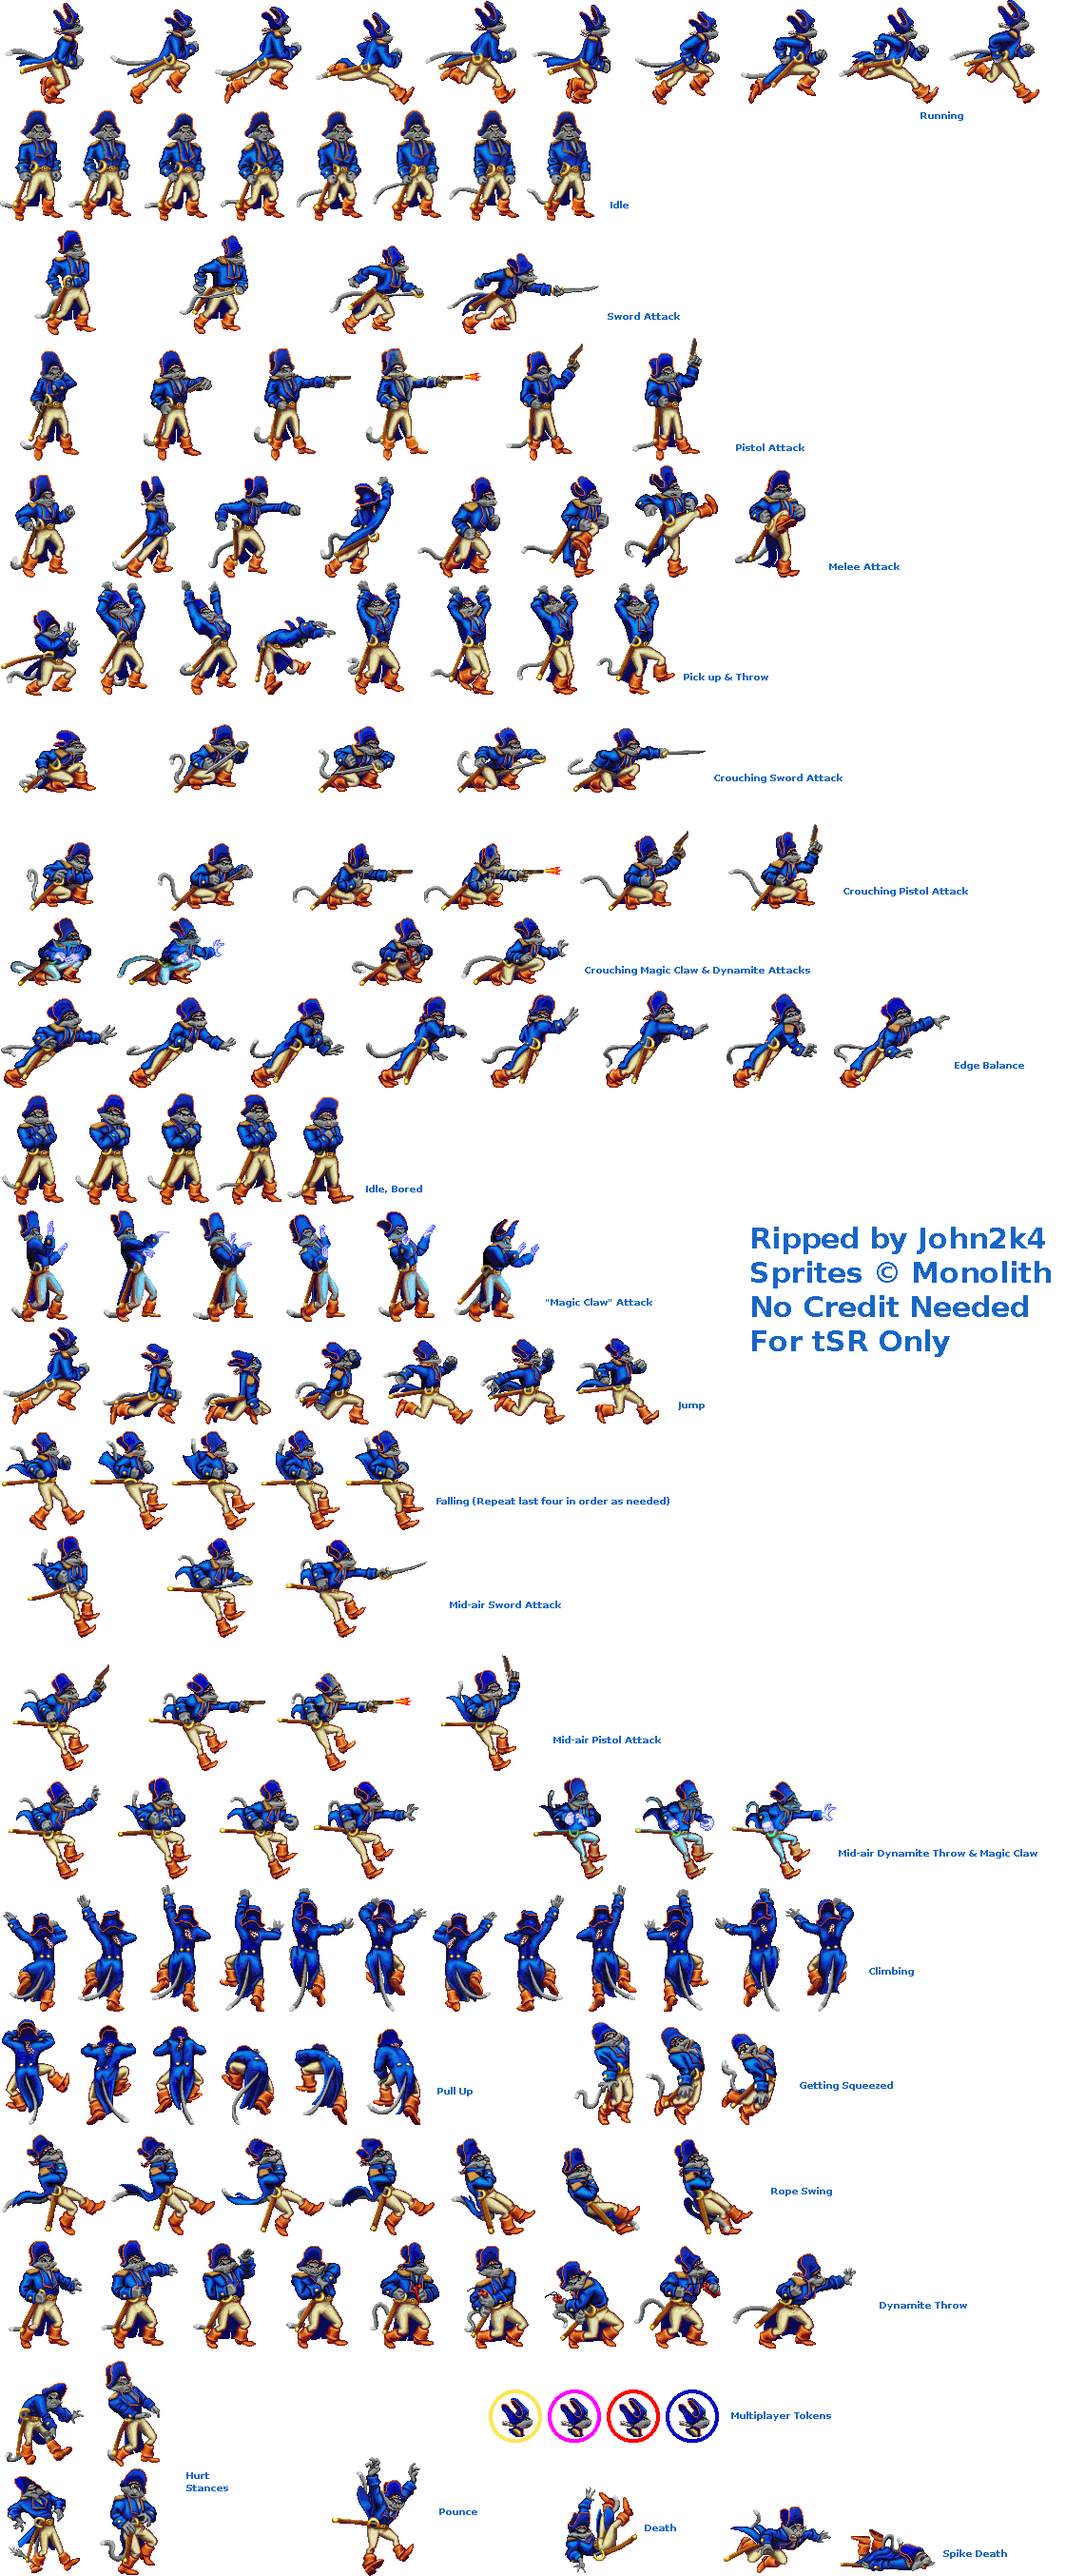
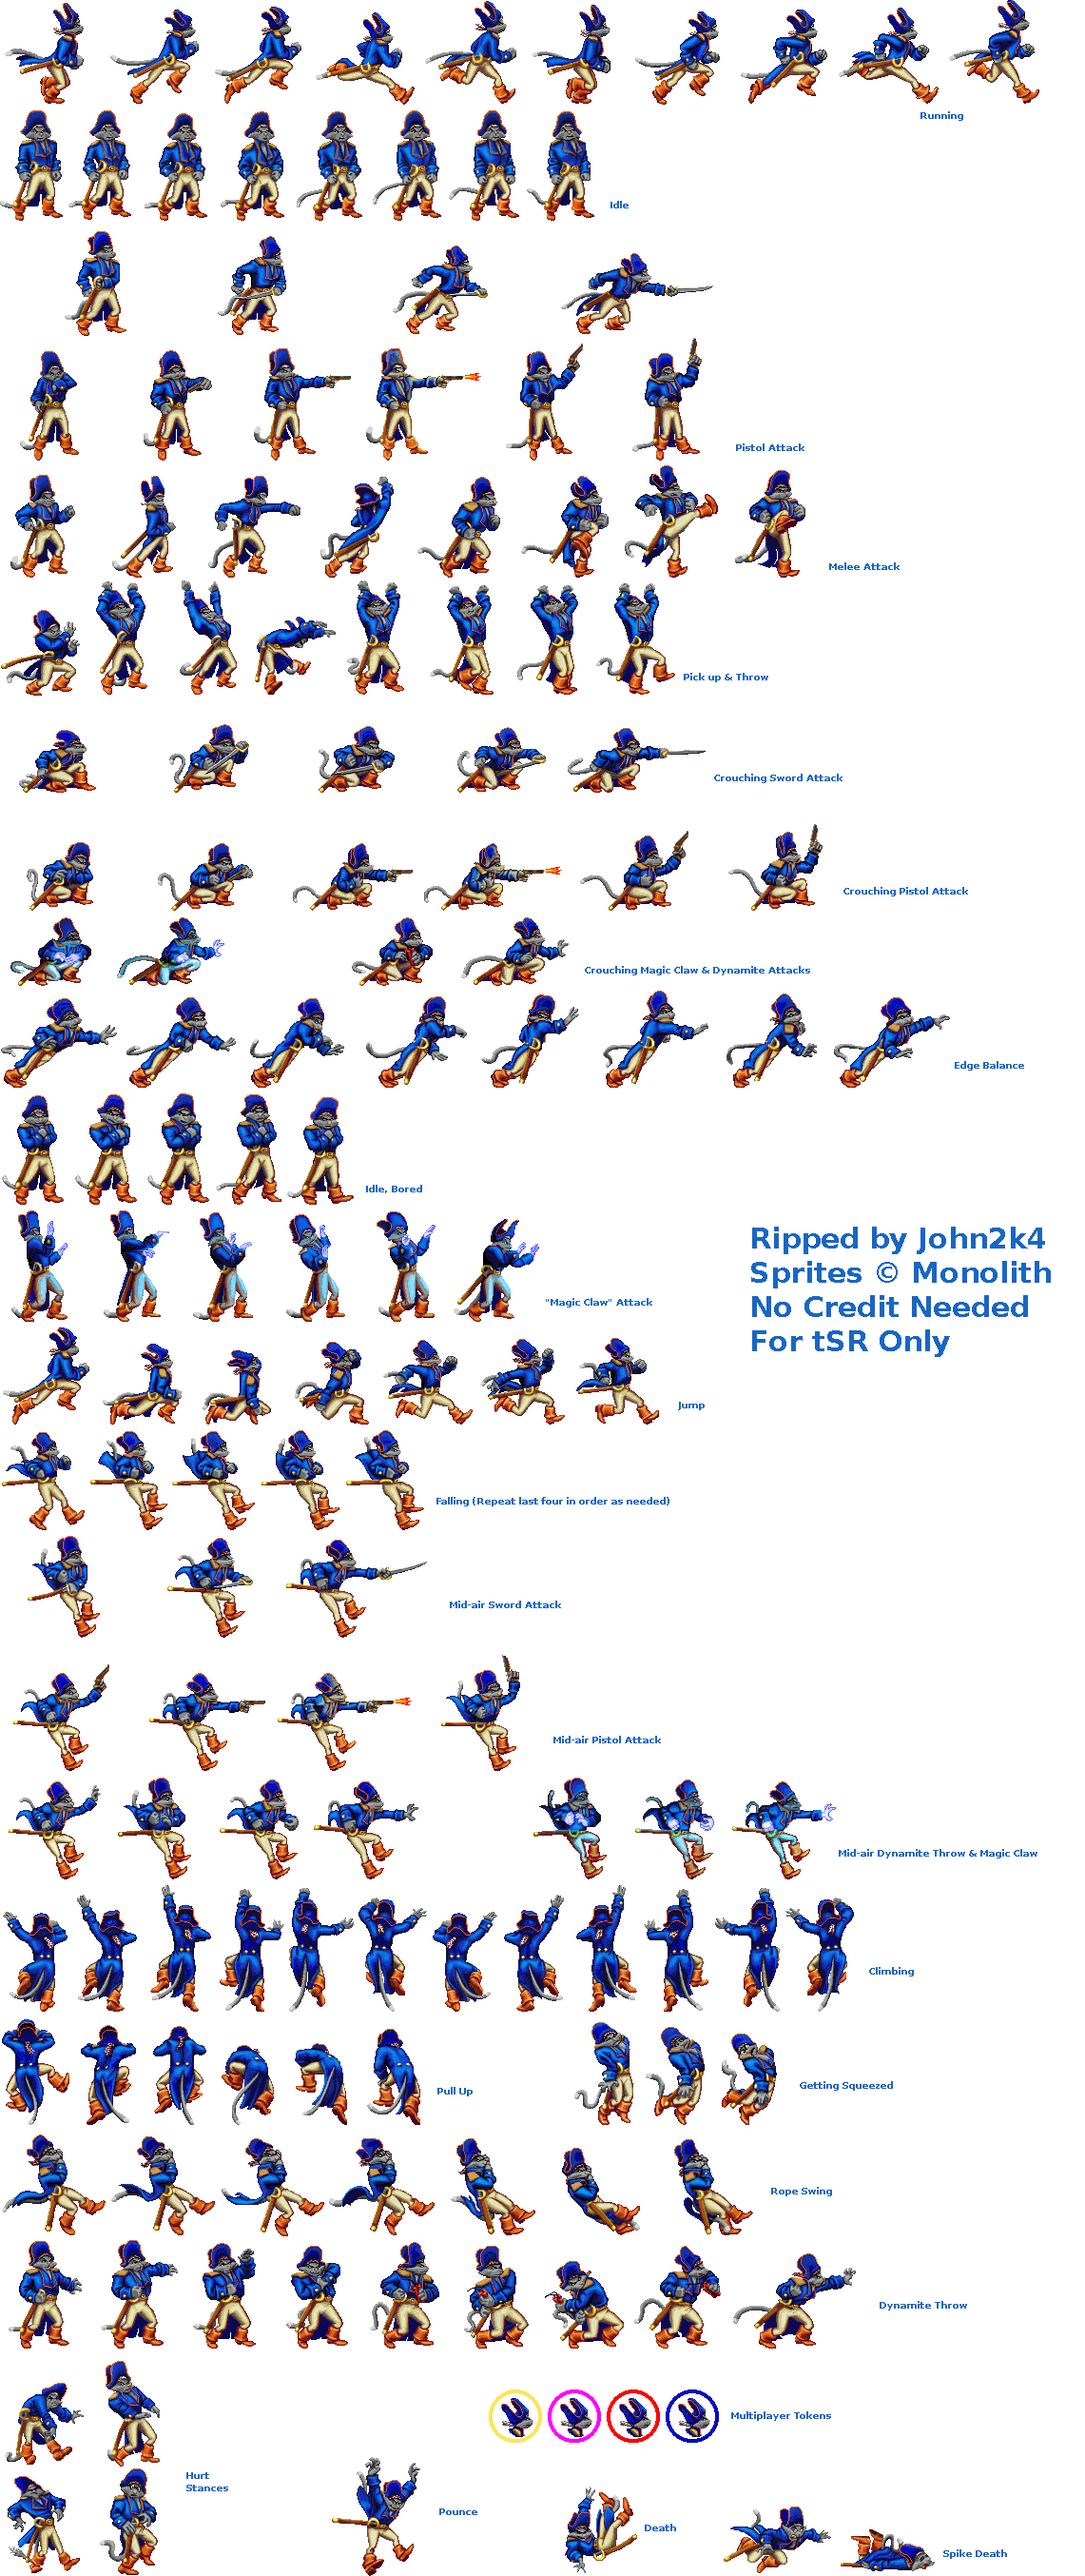
небольшие изменения в спрайтах, и в логике игры

Changed region(s): [[0.3067, 0.0931, 0.6135, 0.1241], [0.1534, 0.0931, 0.2761, 0.1241], [0.0307, 0.0931, 0.1227, 0.1241]]

diff --git a/source/Player.hpp b/source/Player.hpp
@@ -93,7 +93,14 @@ public:
 	{
 		//Clock cloker;
 		//cout << x << "=====" << y;
-		if (STATE == stay ) anim.set("stay");
+		switch (STATE)
+		{
+		case stay:
+			anim.set("stay");
+			break;
+		default:
+			break;
+		}
 		if (STATE == run) anim.set("run");
 		if (STATE == jump) { anim.set("jump"); }
 		if (STATE == sit_down) anim.set("sit_down");
@@ -118,20 +125,20 @@ public:
 			timer += time;
 			if (timer > 600) { shoot = false; timer = 0; }
 			//cout << timer << "\n";
-			if (STATE == sit_down) {
+			/*if (STATE == sit_down) {
 				if (dir == 1) {  }
 				anim.set("hit_sword_down");
 
+			}*/
 			}
-			}
-		if (hit_on_enemy && STATE!= dead_spike && shoot == false) {
+		if (hit_on_enemy && STATE!= dead_spike && shoot == false && STATE != sit_down) {
 			timer += time;
 			if (timer > 1000) { 
 				hit_on_enemy = false;
 				timer = 0;}
 			anim.set("hit_on_enemy");
 		}
-		if (dy > 0 && STATE != climb && (STATE != dead_spike)) { anim.set("fall");}
+		if (dy > 0 && STATE != climb && (STATE != dead_spike) ) { anim.set("fall");}
 
 		if (dir) anim.flip();//переворачиваем если что)
 

diff --git a/source/Animation.hpp b/source/Animation.hpp
@@ -64,7 +64,7 @@ public:
 		a.speed = float(speed);
 		a.loop = Loop;
 		a.sprite.setTexture(texture);
-		a.sprite.setOrigin(20,h);
+		a.sprite.setOrigin(0,h);
 
 		for (int i=0;i<count;i++)
 		{
